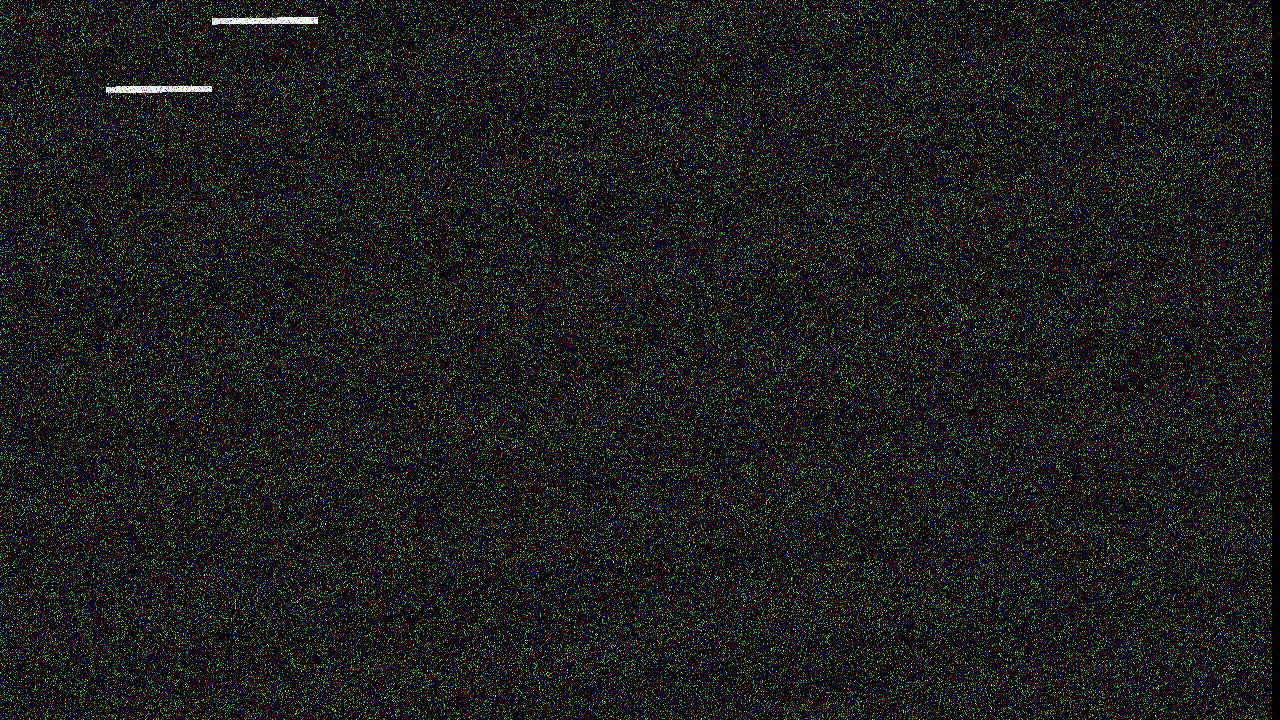
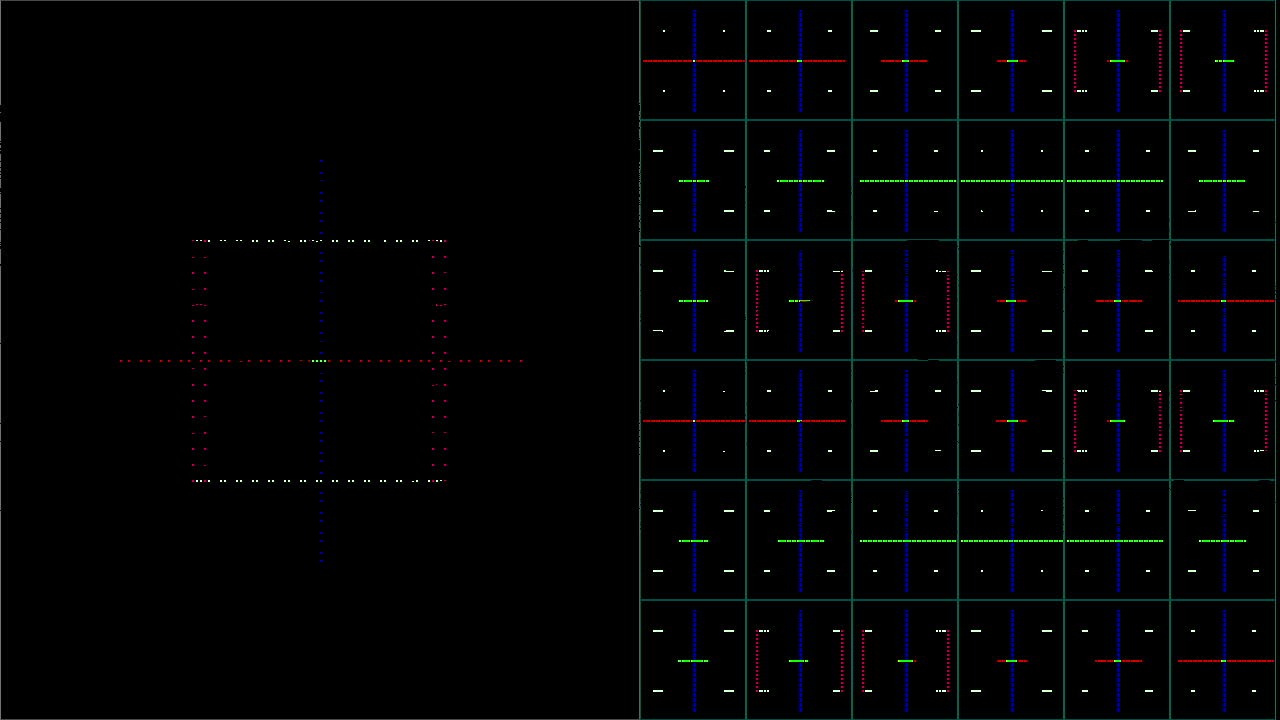
Hour 1 milestone: right-half 36-slice grid (6x6, every 10°)
- helloworld.c main loop CPU path:
  - LEFT panel 640x720: full 3D projection rotating 10s/cycle
  - RIGHT panel 640x720: 6x6 grid of 36 z-slice cells, angles 0..350° step 10°
  - Each grid cell ~106x120 px, scale fitted (CELL_SCALE=100)
- Verified via HDMI capture (C1-1 USB3): all 36 angle cells visible,
  default cube model shows axes/edges intersecting at expected angles
- USE_PL=0 (CPU path) — PL batch IP model-update bug deferred to later

Visual: vid_frames_v6/.. + new hdmi_ff.jpg snapshot

diff --git a/02_hello_zynq/vitis_ws/hello_world/src/helloworld.c b/02_hello_zynq/vitis_ws/hello_world/src/helloworld.c
@@ -28,10 +28,9 @@
 #include "xil_io.h"
 #include "xiltimer.h"
 
-#define USE_PL 1
-/* Test mode: each frame copy model to alternate address to defeat any
- * potential read-buffer/address-cache effect in IP/smc/HP path. */
-#define DEFEAT_ADDR_CACHE 1
+#define USE_PL 0
+/* Address-cache defeat experiment kept off — PL IP bug deferred. */
+#define DEFEAT_ADDR_CACHE 0
 
 /* Keep 720p60 for stable HDMI preview. 1080p upgrade needs rgb2dvi verification. */
 #define WIDTH   1280
@@ -959,22 +958,36 @@ int main(void)
             Xil_DCacheFlushRange(fb_write, FRAME_BYTES);
         }
 #else
-        /* Two big panels 640×720:
-         *   LEFT: 3D projection rotating 10s/cycle (36°/s)
-         *   RIGHT: z-slice rotating 5s/cycle (72°/s)
-         * Both use wall-clock time via Global Timer — independent of CPU FPS. */
+        /* Layout:
+         *   LEFT 640×720: full 3D projection rotating 10s/cycle.
+         *   RIGHT 640×720: static 6×6 grid of 36 z-slices, every 10° (0..350).
+         *     Each grid cell ≈ 106×120 px (640/6 ≈ 106, 720/6 = 120).
+         * Both update from Global Timer (independent of FPS). */
         {
             const int PW = WIDTH / 2;
             const int PH = HEIGHT;
-            const int SCALE = 400;
+            const int LEFT_SCALE = 400;
             u64 now = gt_read();
             u64 us  = (now - gt0) / GT_TICKS_PER_US;
-            int left_angle  = (int)((us * 36ULL  / 1000000ULL) % 360ULL);  /* 10s */
-            int right_angle = (int)((us * 72ULL  / 1000000ULL) % 360ULL);  /* 5s  */
+            int left_angle = (int)((us * 36ULL / 1000000ULL) % 360ULL);
             uart_poll_frame();
-            cpu_render_panel(fb_write, left_angle,  0,  0, PW, PH, 0, SCALE);
+            cpu_render_panel(fb_write, left_angle, 0, 0, PW, PH, 0, LEFT_SCALE);
+
+            /* Right half: 6×6 = 36 slice cells. Cell size ~106×120, 10°/cell. */
             uart_poll_frame();
-            cpu_render_panel(fb_write, right_angle, PW, 0, PW, PH, 1, SCALE);
+            const int GCOLS = 6;
+            const int GROWS = 6;
+            const int CW = PW / GCOLS;        /* 106 */
+            const int CH = PH / GROWS;        /* 120 */
+            const int CELL_SCALE = 100;       /* model fits in tiny cell */
+            for (int gi = 0; gi < GCOLS * GROWS; gi++) {
+                int gc = gi % GCOLS;
+                int gr = gi / GCOLS;
+                int ox = PW + gc * CW;
+                int oy = gr * CH;
+                int ang = (gi * 10) % 360;
+                cpu_render_panel(fb_write, ang, ox, oy, CW, CH, 1, CELL_SCALE);
+            }
         }
 #endif
 
